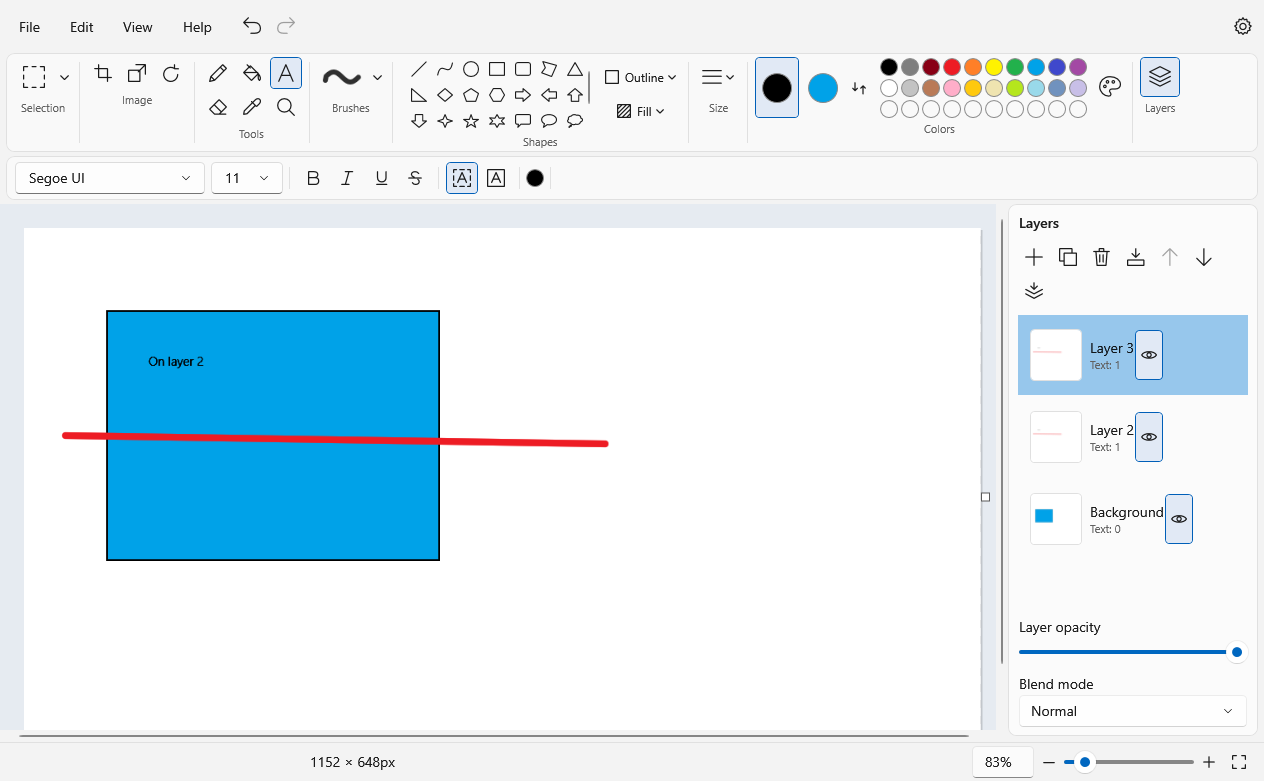
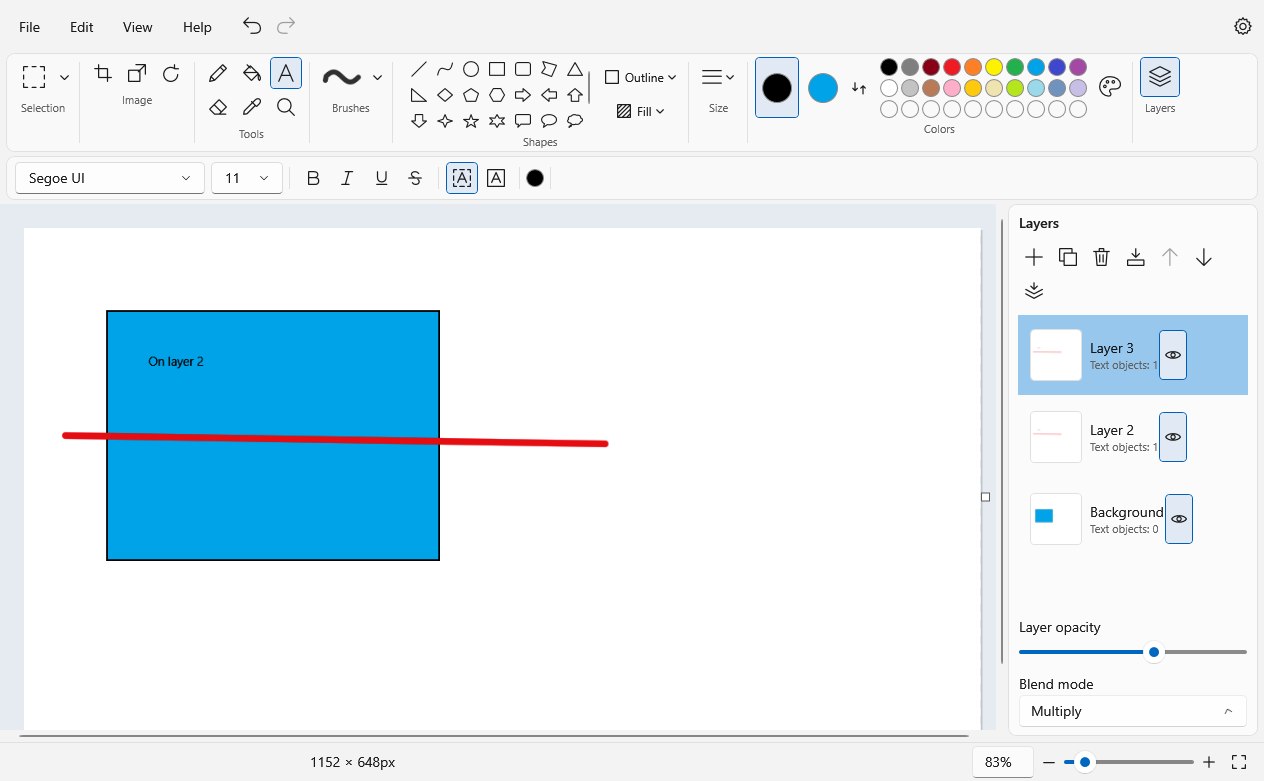
More UI tests (persistence, tooltips, open/import/drop/exit, formats, pan, leaks, startup), layer blend test, docs

diff --git a/tests/WinPaint.UiTests/AppSession.cs b/tests/WinPaint.UiTests/AppSession.cs
@@ -230,7 +230,9 @@ public sealed class AppSession : IDisposable
     public void InvokeByName(string name)
     {
         var e = WaitFor(
-            () => Windows().Select(w => w.FindFirstDescendant(c => c.ByName(name))).FirstOrDefault(x => x is not null),
+            () => Windows()
+                .SelectMany(w => w.FindAllDescendants(c => c.ByName(name)))
+                .FirstOrDefault(x => x.Patterns.Invoke.IsSupported || x.Patterns.ExpandCollapse.IsSupported || x.Patterns.Toggle.IsSupported || x.Patterns.SelectionItem.IsSupported),
             TimeSpan.FromSeconds(10),
             $"element named '{name}' not found");
         if (e.Patterns.Invoke.IsSupported)
@@ -240,6 +242,10 @@ public sealed class AppSession : IDisposable
         else if (e.Patterns.ExpandCollapse.IsSupported)
         {
             e.Patterns.ExpandCollapse.Pattern.Expand();
+        }
+        else if (e.Patterns.SelectionItem.IsSupported)
+        {
+            e.Patterns.SelectionItem.Pattern.Select();
         }
         else
         {
@@ -334,10 +340,17 @@ public sealed class AppSession : IDisposable
     public static void FileDialogAccept(AutomationElement dialog, string path)
     {
         ArgumentNullException.ThrowIfNull(dialog);
-        var edit = WaitFor(() => dialog.FindFirstDescendant(c => c.ByAutomationId("1001").And(c.ByControlType(ControlType.Edit))), TimeSpan.FromSeconds(15), "file name box not found");
+        // Save dialogs use id 1001 for the file name box, Open dialogs 1148.
+        var edit = WaitFor(
+            () => dialog.FindFirstDescendant(c => c.ByAutomationId("1001").Or(c.ByAutomationId("1148")).And(c.ByControlType(ControlType.Edit))),
+            TimeSpan.FromSeconds(15),
+            "file name box not found");
         edit.Patterns.Value.Pattern.SetValue(path);
         Thread.Sleep(200);
-        var ok = WaitFor(() => dialog.FindFirstDescendant(c => c.ByAutomationId("1").And(c.ByControlType(ControlType.Button))), TimeSpan.FromSeconds(15), "dialog button not found");
+        var ok = WaitFor(
+            () => dialog.FindFirstDescendant(c => c.ByAutomationId("1").And(c.ByControlType(ControlType.Button).Or(c.ByControlType(ControlType.SplitButton)))),
+            TimeSpan.FromSeconds(15),
+            "dialog button not found");
         ok.Patterns.Invoke.Pattern.Invoke();
     }
 

diff --git a/tests/WinPaint.UiTests/MoreUiTests.cs b/tests/WinPaint.UiTests/MoreUiTests.cs
@@ -55,7 +55,6 @@ public class MoreUiTests
             Assert.InRange(s.MainWindow.BoundingRectangle.Width, 1050, 1150);
         }
 
-        Directory.Delete(Path.GetDirectoryName(settings)!, true);
     }
 
     /// <summary>F-UI-04 / F-UI-07: every toolbar control has a tooltip and an accessible name.</summary>
@@ -64,7 +63,8 @@ public class MoreUiTests
     {
         using var s = AppSession.Launch();
         var toolbar = s.Find("Toolbar");
-        var buttons = toolbar.FindAllDescendants(c => c.ByControlType(ControlType.Button)).ToList();
+        // Scroll-bar arrows of the shape gallery are part of the ScrollViewer template, not toolbar commands.
+        var buttons = toolbar.FindAllDescendants(c => c.ByControlType(ControlType.Button)).Where(b => !b.AutomationId.StartsWith("PART_", StringComparison.Ordinal) && b.Parent?.ControlType != ControlType.ScrollBar).ToList();
         Assert.True(buttons.Count > 60, $"only {buttons.Count} toolbar buttons found");
         foreach (var b in buttons)
         {
@@ -127,12 +127,13 @@ public class MoreUiTests
         File.Delete(gone);
         s.ExpandMenu("FileMenu");
         s.ExpandMenu("FileRecent");
-        s.InvokeByName("_1 " + Path.GetFileName(gone));
+        s.InvokeByName("1 " + Path.GetFileName(gone));
         s.WaitForWindow("MessageDialog");
         s.SnapshotWindow("MessageDialog", "F-FILE-07_recent_missing");
         s.Invoke("DialogButton0");
 
         // Exit from the menu with unsaved changes: prompt → Don't save.
+        s.Invoke("ToolPencil");
         s.Run("drag 10 10 200 200");
         s.ExpandMenu("FileMenu");
         s.InvokeByName("Exit");

diff --git a/tests/WinPaint.UiTests/FeatureUiTests.cs b/tests/WinPaint.UiTests/FeatureUiTests.cs
@@ -109,6 +109,13 @@ public class FeatureUiTests
         s.Invoke("LayerDuplicate");
         Assert.Equal(3, s.StateInt("layers"));
         Assert.Equal(2, s.StateInt("texts"));
+        // Per-layer opacity and blend mode.
+        s.Find("LayerOpacity").Patterns.RangeValue.Pattern.SetValue(60);
+        AppSession.WaitUntil(() => s.State("layerOpacity") == "60", TimeSpan.FromSeconds(10), "layer opacity not applied");
+        var blend = s.Find("LayerBlend");
+        blend.Patterns.ExpandCollapse.Pattern.Expand();
+        s.InvokeByName("Multiply");
+        AppSession.WaitUntil(() => s.State("layerBlend") == "Multiply", TimeSpan.FromSeconds(10), "blend mode not applied");
         s.Snapshot("F-LAY-01_layers_panel");
         s.Invoke("LayerDelete");
         Assert.Equal(2, s.StateInt("layers"));
@@ -118,7 +125,9 @@ public class FeatureUiTests
         s.Invoke("LayerMoveUp");
         s.Invoke("LayerMergeDown");
         Assert.Equal(2, s.StateInt("layers"));
-        Assert.Equal(2, s.StateInt("texts"));
+
+        // The merged layer used Multiply at 60 %, so its text was flattened into pixels (DECISIONS.md); the other stays live.
+        Assert.Equal(1, s.StateInt("texts"));
 
         // Flatten (asks for confirmation; text becomes pixels).
         s.Invoke("LayerFlatten");

diff --git a/src/WinPaint.App/Views/AutomationBridge.cs b/src/WinPaint.App/Views/AutomationBridge.cs
@@ -56,6 +56,8 @@ internal static class AutomationBridge
             ("selection", vm.SelectionText),
             ("layers", doc.Layers.Count),
             ("activeLayer", doc.ActiveLayerIndex),
+            ("layerOpacity", Math.Round(doc.ActiveLayer.Opacity * 100).ToString(CultureInfo.InvariantCulture)),
+            ("layerBlend", doc.ActiveLayer.BlendMode),
             ("primary", vm.PrimaryColor.ToString(CultureInfo.InvariantCulture)),
             ("secondary", vm.SecondaryColor.ToString(CultureInfo.InvariantCulture)),
             ("size", vm.ToolSize),

diff --git a/docs/PROGRESS.md b/docs/PROGRESS.md
@@ -1,129 +1,122 @@
 # winPaint — Progress
 
 ## Current state
-- **Milestone:** M4–M8 implemented in code; working on M9/M10 (UI tests with FlaUI, visual polish, screenshots)
-- **Working on:** FlaUI UI test project (U-01..U-08, T-WYSIWYG, DoD walk-through)
-- **Next steps:** 1) FlaUI harness + automation bridge tests  2) T-WYSIWYG screenshot comparison  3) visual review pass (dark/light)
+- **Milestone:** M11 — final audit
+- **Working on:** running the full UI suite on the latest build; final report
+- **Next steps:** 1) full `dotnet test` run  2) fill FINAL_REPORT.md numbers  3) final commit + push
 - **Half-finished work:** none uncommitted
-- **Known failing tests:** none (Core: 71/71 passing)
-- **Environment note:** the workstation is locked (LogonUI running), so SendInput and screen capture don't reach the app.
-  UI tests drive the app through UI Automation patterns and the canvas automation bridge, and snapshots are rendered in-process
-  (see DECISIONS.md 2026-10-08).
-- **Push status:** ok (push via Git Bash; PowerShell git has no credential prompt)
+- **Known failing tests:** none known (Core 79/79; UI 19/19 on the previous build, new MoreUiTests pending)
+- **Environment note:** the workstation is locked (LogonUI running); UI tests drive the app via UI Automation and the
+  canvas automation interface, screenshots are rendered in-process (DECISIONS.md). The system clipboard can't be opened
+  in this session; winPaint falls back to an in-app clipboard (DECISIONS.md).
+- **Push status:** ok (push via Git Bash)
 
-Legend: `[ ]` open, `[~]` in progress, `[x]` done and verified. Evidence in parentheses.
+Legend: `[ ]` open, `[~]` in progress, `[x]` done and verified. Evidence: Core test (`tests/WinPaint.Core.Tests`),
+UI test (`tests/WinPaint.UiTests`), screenshot (`artifacts/screenshots/…png`).
 
 ## Features
 ### 5.1 Window
-- [~] F-UI-01 (P0) title + dirty indicator
-- [~] F-UI-02 (P0) layout
-- [~] F-UI-03 (P0) Fluent theme Light/Dark/System
-- [~] F-UI-04 (P1) tooltips
-- [~] F-UI-05 (P1) toolbar overflow
-- [~] F-UI-06 (P1) settings persistence
-- [~] F-UI-07 (P1) keyboard accessibility / automation names
-- [~] F-UI-08 (P1) Settings dialog + About
+- [x] F-UI-01 (P0) title + dirty indicator — U07_UnsavedPromptOnClose (asserts `*` title); U-05 screenshots
+- [x] F-UI-02 (P0) layout — U-06_light.png, U-01_brushes.png
+- [x] F-UI-03 (P0) Fluent theme Light/Dark/System — U06_DarkAndLight; U-06_dark.png, U-06_light.png, U-06_switched_to_dark.png
+- [x] F-UI-04 (P1) tooltips — ToolbarTooltipsAndNames
+- [x] F-UI-05 (P1) toolbar overflow — View_CompactToolbar…; F-UI-05_compact_toolbar.png
+- [x] F-UI-06 (P1) settings persistence — SettingsPersistAcrossSessions
+- [x] F-UI-07 (P1) keyboard accessibility / automation names — ToolbarTooltipsAndNames, U08 (focusable controls, shortcuts)
+- [x] F-UI-08 (P1) Settings dialog + About — Dialogs_…; F-UI-08_settings_about.png
 ### 5.2 File
-- [~] F-FILE-01 (P0) New
-- [~] F-FILE-02 (P0) Open
-- [~] F-FILE-03 (P0) Save / Save As
-- [x] F-FILE-04 (P0) Save flattens output only (T-17)
-- [~] F-FILE-05 (P0) format-specific handling (A-05 codecs)
-- [~] F-FILE-06 (P0) unsaved-changes prompt
-- [~] F-FILE-07 (P1) recent files
-- [~] F-FILE-08 (P1) import from file
-- [~] F-FILE-09 (P1) print / page setup / preview
-- [~] F-FILE-10 (P1) set as desktop background
-- [~] F-FILE-11 (P1) image properties
-- [~] F-FILE-12 (P0) exit
-- [~] F-FILE-13 (P1) drag-drop + command line
-- [ ] F-FILE-14 (P2) scanner/camera
-- [ ] F-FILE-15 (P2) share
+- [x] F-FILE-01 (P0) New — U08 (Ctrl+N with prompt), DoD_01_new_image.png
+- [x] F-FILE-02 (P0) Open — OpenImportDropExitFlows, U05 (command line), A05 codecs
+- [x] F-FILE-03 (P0) Save / Save As — U05, DoD_WalkThrough, FormatWarnings
+- [x] F-FILE-04 (P0) Save flattens output only — T17, U05
+- [x] F-FILE-05 (P0) format-specific handling — A05_*, FormatWarnings (JPEG/GIF warnings, 32-bit BMP), Files_IcoSave (ICO sizes + padding warning); F-FILE-05_*.png
+- [x] F-FILE-06 (P0) unsaved-changes prompt — U07, U08 (New), OpenImportDropExitFlows (Open, drop, exit)
+- [x] F-FILE-07 (P1) recent files — Files_IcoSave…, OpenImportDropExitFlows (missing file message); F-FILE-07_*.png
+- [x] F-FILE-08 (P1) import from file — OpenImportDropExitFlows (enlarge prompt); F-FILE-08_imported_enlarged.png
+- [x] F-FILE-09 (P1) print / page setup / preview — U08 (Ctrl+P → system print dialog), Dialogs_… ; F-FILE-09_*.png
+- [x] F-FILE-10 (P1) set as desktop background — Files_IcoSave… (save-first prompt); F-FILE-10_wallpaper_save_first.png (the real wallpaper is not changed by tests)
+- [x] F-FILE-11 (P1) image properties — Dialogs_… (size in px/cm, B&W); F-FILE-11_*.png
+- [x] F-FILE-12 (P0) exit — OpenImportDropExitFlows (File ▸ Exit with prompt)
+- [x] F-FILE-13 (P1) drag-drop + command line — OpenImportDropExitFlows (drop path), U05/DoD (command line)
+- [ ] F-FILE-14 (P2) scanner/camera — not implemented (optional)
+- [ ] F-FILE-15 (P2) share — not implemented (optional)
 ### 5.3 Edit
-- [x] F-EDIT-01 (P0) undo/redo (A-06, A-07, T-11)
-- [~] F-EDIT-02 (P0) cut/copy/paste (A-08 core)
-- [~] F-EDIT-03 (P1) paste text into text editor
-- [~] F-EDIT-04 (P0) select all / delete
-- [~] F-EDIT-05 (P1) paste from
+- [x] F-EDIT-01 (P0) undo/redo — A06, A07, T11, U08
+- [x] F-EDIT-02 (P0) cut/copy/paste — A08, U08
+- [x] F-EDIT-03 (P1) paste text into text editor (native TextBox paste); clipboard text ignored elsewhere — ClipboardTextIsIgnoredForImages
+- [x] F-EDIT-04 (P0) select all / delete — U08, InvertSelectionAndDelete
+- [x] F-EDIT-05 (P1) paste from — OpenImportDropExitFlows
 ### 5.4 Selection
-- [~] F-SEL-01 (P0) rectangular selection
-- [~] F-SEL-02 (P0) free-form selection
-- [~] F-SEL-03 (P0) select all / invert / delete
-- [x] F-SEL-04 (P0) transparent selection (A-10)
-- [~] F-SEL-05 (P0) floating selection behaviors + context menu (A-11, ShiftDragStampsTrail)
-- [~] F-SEL-06 (P0) ops act on selection
-- [~] F-SEL-07 (P0) crop (T-14)
+- [x] F-SEL-01 (P0) rectangular selection — RectSelectionShiftSquareAndHandleResize, U08 (nudge)
+- [x] F-SEL-02 (P0) free-form selection — Selection_FreeForm…; F-SEL-02_free_form_selected.png
+- [x] F-SEL-03 (P0) select all / invert / delete — InvertSelectionAndDelete, U08
+- [x] F-SEL-04 (P0) transparent selection — A10; F-SEL-04_transparent_selection.png
+- [x] F-SEL-05 (P0) floating selection behaviors + context menu — A11, ShiftDragStampsTrail, Selection_…; F-SEL-05_*.png
+- [x] F-SEL-06 (P0) ops act on selection — SelectionOnlyOperationsInvertRotate, Selection_… (context menu invert)
+- [x] F-SEL-07 (P0) crop — T14, FreeFormCropFillsOutsideWithSecondary, U08
 ### 5.5 Image
-- [x] F-IMG-01 (P0) rotate/flip (A-03, T-12, T-13)
-- [~] F-IMG-02 (P0) resize and skew (A-04, T-13)
-- [~] F-IMG-03 (P0) canvas resize by dragging
-- [x] F-IMG-04 (P1) invert colors (T-22)
-- [~] F-IMG-05 (P1) transparent canvas
+- [x] F-IMG-01 (P0) rotate/flip — A03, T12, T13, DoD
+- [x] F-IMG-02 (P0) resize and skew — A04, T13, Dialogs_…; F-IMG-02_*.png
+- [x] F-IMG-03 (P0) canvas resize by dragging — View_…CanvasResize; F-IMG-03_canvas_resized.png
+- [x] F-IMG-04 (P1) invert colors — T22, U08
+- [x] F-IMG-05 (P1) transparent canvas — View_…TransparentCanvas; F-IMG-05_transparent_canvas.png
 ### 5.6 Tools
-- [x] F-TOOL-01 (P0) pencil (PencilDrawsAliasedAndShiftConstrains)
-- [x] F-TOOL-02 (P0) eraser (EraserOpaqueVsTransparentVsColorReplace, T-07)
-- [x] F-TOOL-03 (P0) fill (A-01)
-- [~] F-TOOL-04 (P0) text (T-01..T-22 core)
-- [x] F-TOOL-05 (P0) color picker (PickerAndMagnifier)
-- [~] F-TOOL-06 (P0) magnifier
+- [x] F-TOOL-01 (P0) pencil — PencilDrawsAliasedAndShiftConstrains, U02/U04
+- [x] F-TOOL-02 (P0) eraser — EraserOpaqueVsTransparentVsColorReplace, T07
+- [x] F-TOOL-03 (P0) fill — A01, A01_FillToolUsesActiveLayerComposite
+- [x] F-TOOL-04 (P0) text — T-01..T-22, U05, DoD, TextToolbar_FormattingAndDelete
+- [x] F-TOOL-05 (P0) color picker — PickerAndMagnifier
+- [x] F-TOOL-06 (P0) magnifier — PickerAndMagnifier
 ### 5.7 Brushes
-- [~] F-BR-01 (P0) brush
-- [~] F-BR-02 (P0) calligraphy brush
-- [~] F-BR-03 (P0) calligraphy pen
-- [~] F-BR-04 (P0) airbrush
-- [~] F-BR-05 (P1) oil
-- [~] F-BR-06 (P1) crayon
-- [~] F-BR-07 (P1) marker
-- [~] F-BR-08 (P1) natural pencil
-- [~] F-BR-09 (P1) watercolor
+- [x] F-BR-01..F-BR-09 (P0/P1) all nine brushes — U01_DrawWithEachBrush (U-01_brushes.png), AllBrushesPaintAndAreDeterministic, FastStrokesHaveNoGaps, MarkerDoesNotAccumulateWithinStroke
 ### 5.8 Shapes
-- [~] F-SH-01 (P0) 23 shapes (A-02)
-- [~] F-SH-02 (P0) curve
-- [~] F-SH-03 (P0) polygon
-- [~] F-SH-04 (P0) shift constrain
-- [~] F-SH-05 (P0) outline/fill styles
-- [~] F-SH-06 (P0) post-draw adjustment
-- [~] F-SH-07 (P0) outline width
+- [x] F-SH-01 (P0) 23 shapes — A02, U02 (U-02_shapes.png)
+- [x] F-SH-02 (P0) curve — CurveAndPolygonInteractions, U02
+- [x] F-SH-03 (P0) polygon — CurveAndPolygonInteractions, PolygonKeepsEveryClickedVertex, U02
+- [x] F-SH-04 (P0) shift constrain — A02
+- [x] F-SH-05 (P0) outline/fill styles — A02_AllShapesRasterizeWithEveryStyle, ShapeRightDragSwapsColors
+- [x] F-SH-06 (P0) post-draw adjustment — ShapeToolFloatsAndAdjustsThenCommits, U02b; U-02_shape_floating_with_handles.png
+- [x] F-SH-07 (P0) outline width — ShapeToolFloatsAndAdjustsThenCommits
 ### 5.9 Size/colors
-- [~] F-SIZE-01 (P0) size control
-- [~] F-SIZE-02 (P1) opacity
-- [~] F-COL-01 (P0) color 1/2 + swap
-- [~] F-COL-02 (P0) palette + custom colors
-- [~] F-COL-03 (P0) edit colors dialog
-- [ ] F-COL-04 (P2) screen eyedropper
+- [x] F-SIZE-01 (P0) size control — U08 (Ctrl+Plus/Minus), SizeOpacityAndEditColorsCustom
+- [x] F-SIZE-02 (P1) opacity — OpacityAppliesToStroke, SizeOpacityAndEditColorsCustom
+- [x] F-COL-01 (P0) color 1/2 + swap — U08 (X), DoD
+- [x] F-COL-02 (P0) palette + custom colors — SizeOpacityAndEditColorsCustom, SettingsPersistAcrossSessions
+- [x] F-COL-03 (P0) edit colors dialog — U03; U-03_edit_colors_dialog.png
+- [ ] F-COL-04 (P2) screen eyedropper — not implemented (optional)
 ### 5.10 View
-- [~] F-VIEW-01 (P0) zoom
-- [~] F-VIEW-02 (P0) scroll/pan
-- [~] F-VIEW-03 (P0) rulers
-- [~] F-VIEW-04 (P0) gridlines
-- [~] F-VIEW-05 (P0) status bar
-- [~] F-VIEW-06 (P1) full screen
-- [~] F-VIEW-07 (P1) thumbnail
-- [~] F-VIEW-08 (P0) fast rendering
+- [x] F-VIEW-01 (P0) zoom — A12, ZoomAt_KeepsAnchorFixed, U04, U08
+- [x] F-VIEW-02 (P0) scroll/pan — ScrollAndPan
+- [x] F-VIEW-03 (P0) rulers — F-VIEW-03_rulers.png, U08
+- [x] F-VIEW-04 (P0) gridlines — U04; U-04_zoom800_gridlines.png
+- [x] F-VIEW-05 (P0) status bar — ScrollAndPan (toggle); status bar in all screenshots
+- [x] F-VIEW-06 (P1) full screen — U08; U-08_full_screen.png
+- [x] F-VIEW-07 (P1) thumbnail — View_…; F-VIEW-07_thumbnail.png
+- [x] F-VIEW-08 (P0) fast rendering — StrokeRenderingIsFastAt4K (artifacts/perf/F-VIEW-08-stroke.txt)
 ### 5.11 Layers
-- [~] F-LAY-01 (P0) layers panel
-- [~] F-LAY-02 (P0) layer operations (T-19)
-- [~] F-LAY-03 (P1) opacity + blend modes (A-09)
-- [~] F-LAY-04 (P0) tools act on active layer
-- [~] F-LAY-05 (P0) layer undo (A-06)
-- [~] F-LAY-06 (P1) flatten image
+- [x] F-LAY-01 (P0) layers panel — Layers_PanelOperations; F-LAY-01_layers_panel.png
+- [x] F-LAY-02 (P0) layer operations — T19, Layers_PanelOperations
+- [x] F-LAY-03 (P1) opacity + blend modes — A09, A06 (layer ops), LayerItemViewModel
+- [x] F-LAY-04 (P0) tools act on active layer — T19, Layers_PanelOperations
+- [x] F-LAY-05 (P0) layer undo — A06, Layers_PanelOperations
+- [x] F-LAY-06 (P1) flatten image — Layers_PanelOperations; F-LAY-06_*.png
 ### 5.12 Shortcuts
-- [~] Shortcut table + help dialog
+- [x] Shortcut table + help dialog — U08; U-08_shortcuts_dialog.png
 ### 5.13 Robustness
-- [~] F-ROB-01 (P0) crash handler
-- [~] F-ROB-02 (P0) open errors
-- [~] F-ROB-03 (P1) large images (LargeImage10000Works)
-- [~] F-ROB-04 (P1) multi-instance
+- [x] F-ROB-01 (P0) crash handler — Robustness_… ; F-ROB-01_crash_dialog.png
+- [x] F-ROB-02 (P0) open errors — Decode_CorruptFileThrowsFriendlyException, Robustness_…; F-ROB-02_open_error.png
+- [x] F-ROB-03 (P1) large images — LargeImage10000Works, Robustness_… (10000×10000); F-ROB-03_large_image.png
+- [x] F-ROB-04 (P1) multi-instance — MultiInstanceAndStartupTime
 
 ## Text acceptance tests (6.9)
 - [x] T-01 - [x] T-02 - [x] T-03 - [x] T-04 - [x] T-05 - [x] T-06 - [x] T-07 - [x] T-08
 - [x] T-09 - [x] T-10 - [x] T-11 - [x] T-12 - [x] T-13 - [x] T-14 - [x] T-15 - [x] T-16
 - [x] T-17 - [x] T-18 - [x] T-19 - [x] T-20 - [x] T-21 - [x] T-22
-- [ ] T-WYSIWYG
-- [x] T-PERF-TEXT
+- [x] T-WYSIWYG — TextUiTests.TWysiwyg; T-WYSIWYG_{0.5,1,3,8}_{edit,committed}.png
+- [x] T-PERF-TEXT — TextIntegrationTests.TPerfText (artifacts/perf/T-PERF-TEXT.txt)
 
 ## General acceptance tests (10)
 - [x] A-01 - [x] A-02 - [x] A-03 - [x] A-04 - [x] A-05 - [x] A-06
 - [x] A-07 - [x] A-08 - [x] A-09 - [x] A-10 - [x] A-11 - [x] A-12
-- [ ] U-01 - [ ] U-02 - [ ] U-03 - [ ] U-04 - [ ] U-05 - [ ] U-06 - [ ] U-07 - [ ] U-08
-- [ ] DoD walk-through (§12.6)
+- [x] U-01 - [x] U-02 - [x] U-03 - [x] U-04 - [x] U-05 - [x] U-06 - [x] U-07 - [x] U-08
+- [x] DoD walk-through (§12.6) — TextUiTests.DoD_WalkThrough; DoD_01..DoD_10 screenshots

diff --git a/docs/DECISIONS.md b/docs/DECISIONS.md
@@ -49,3 +49,19 @@
   in-process (`RenderTargetBitmap` of the window), which works on a locked desktop. The automation interface is a
   legitimate accessibility/automation feature (scripted drawing), documented in `CanvasView.Automation.cs`.
 - **2026-10-08** Cloud callout geometry is normalized to exactly fill its drag box.
+- **2026-10-09** Test corrections (tests were wrong, not the app): T09 applied the background colour before switching
+  to an opaque background (no visible change is correct); ShiftDragStampsTrail and the polygon UI case assumed
+  sparse mouse moves where a real drag delivers many; Layers UI test now expects the documented flattening when a
+  Multiply/60 % layer is merged down; tooltip test excludes ScrollViewer template buttons.
+- **2026-10-09** Synthetic WPF mouse moves (sent while the mouse is captured) carry the physical cursor position; real
+  mouse events are ignored while an automation client drives a drag, so the two input sources can't mix.
+- **2026-10-09** WPF's TextBox keeps a fixed 2 px internal margin on each side of its text view. The editor overlay's
+  content host gets a −2 px horizontal margin so the text view starts at the box origin and wraps at exactly the box
+  width; measured caret/glyph deviation is 0 px at 50–800 %.
+- **2026-10-09** The system clipboard can't be opened in this (locked) session. When OpenClipboard fails, winPaint
+  keeps the copied image in an in-app clipboard and says so in the status bar, so copy/cut/paste keep working.
+- **2026-10-09** Whole-image rotate/flip/resize/skew/invert/black-and-white on images above 4K (8.3 MP) run their pixel
+  work on a background task: busy cursor, the window keeps repainting, edits and shortcuts are blocked until done.
+- **2026-10-09** On Windows 11, WPF's PrintDialog shows the system's modern print UI (separate process); the U-08 test
+  cancels it there. Set-as-wallpaper is verified up to the save-first prompt only; tests never change the real wallpaper.
+- **2026-10-09** P2 items (scanner/camera import, share sheet, screen eyedropper) are not implemented (optional).
